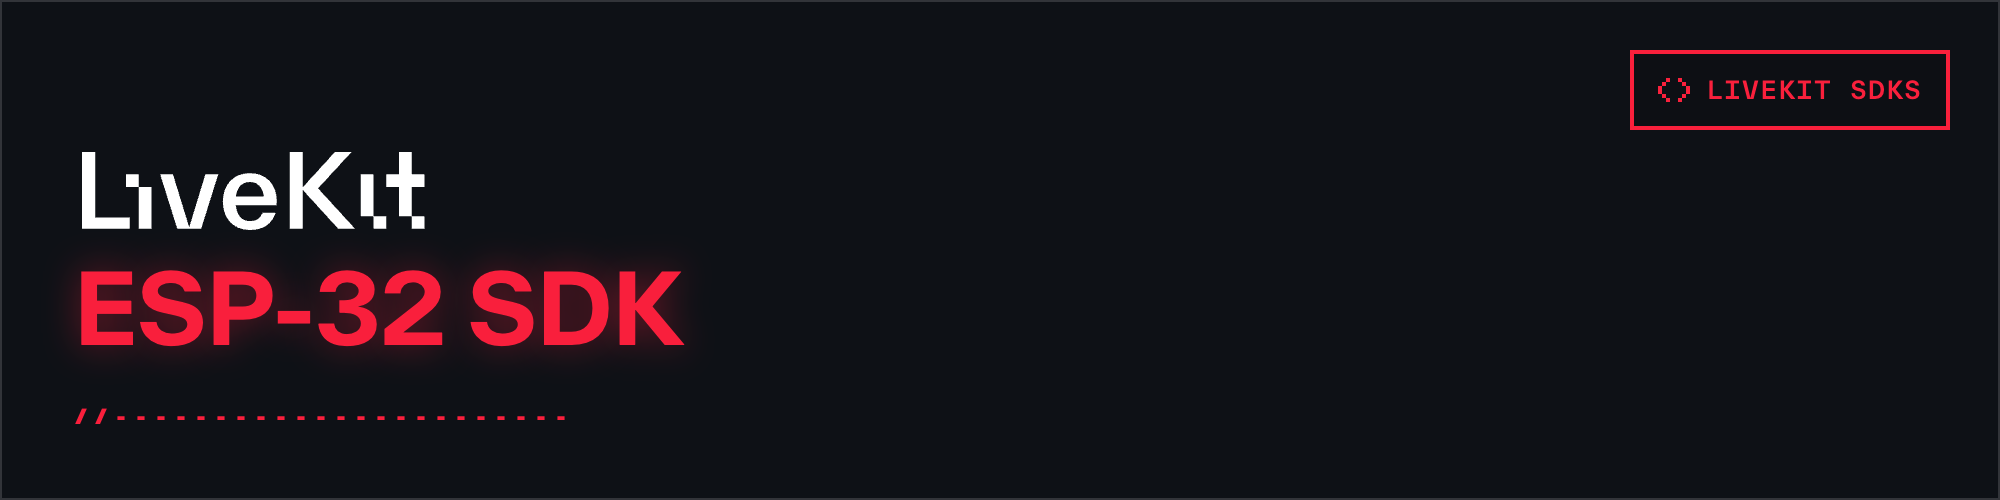
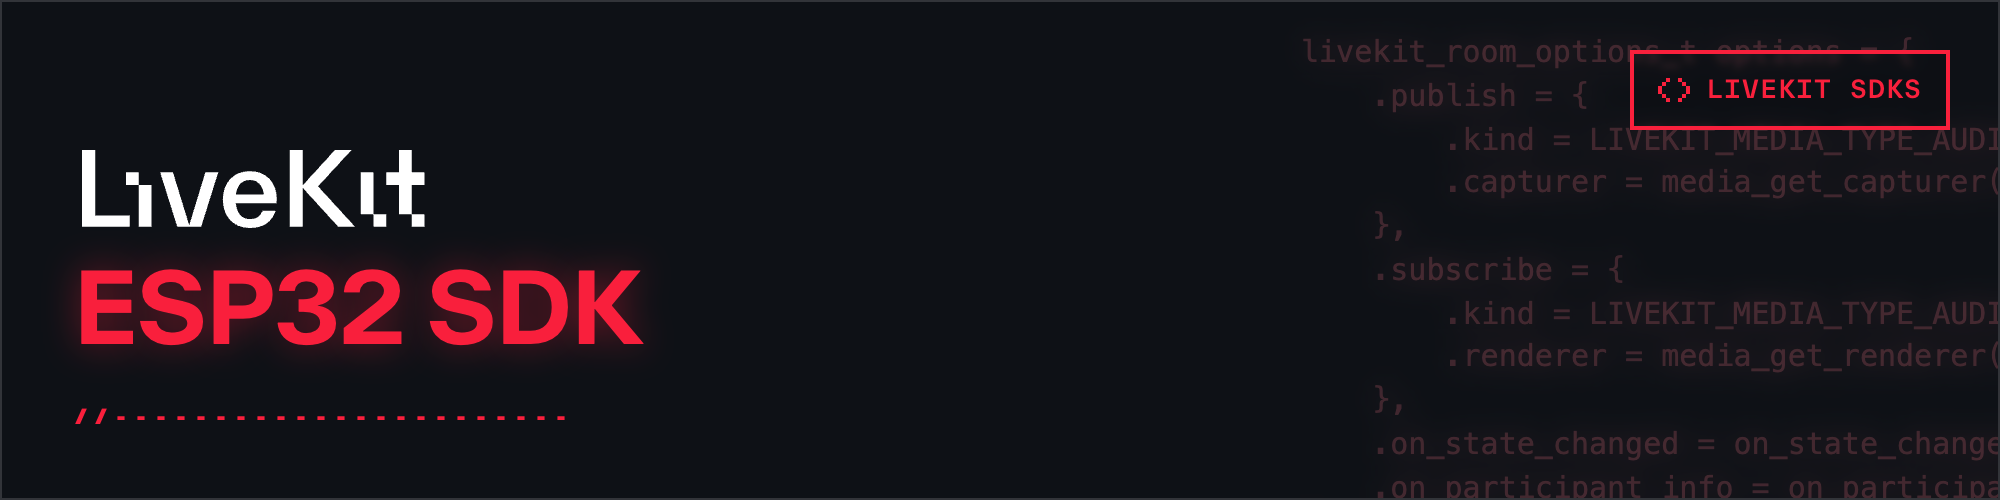
update readme

diff --git a/README.md b/README.md
@@ -1,9 +1,11 @@
 <!--BEGIN_BANNER_IMAGE-->
+
 <picture>
-    <source media="(prefers-color-scheme: dark)" srcset="/.github/banner_dark.png">
-    <source media="(prefers-color-scheme: light)" srcset="/.github/banner_light.png">
-    <img style="width:100%;" alt="The LiveKit icon, the name of the repository and some sample code in the background." src="https://raw.githubusercontent.com/livekit/client-sdk-esp32/main/.github/banner_light.png">
+  <source media="(prefers-color-scheme: dark)" srcset="/.github/banner_dark.png">
+  <source media="(prefers-color-scheme: light)" srcset="/.github/banner_light.png">
+  <img style="width:100%;" alt="The LiveKit icon, the name of the repository and some sample code in the background." src="https://raw.githubusercontent.com/livekit/client-sdk-esp32/main/.github/banner_light.png">
 </picture>
+
 <!--END_BANNER_IMAGE-->
 
 # ESP-32 SDK for LiveKit
@@ -58,9 +60,9 @@ We invite you to join the [LiveKit Community Slack](https://livekit.io/join-slac
 <br/><table>
 <thead><tr><th colspan="2">LiveKit Ecosystem</th></tr></thead>
 <tbody>
-<tr><td>LiveKit SDKs</td><td><a href="https://github.com/livekit/client-sdk-js">Browser</a> · <a href="https://github.com/livekit/client-sdk-swift">iOS/macOS/visionOS</a> · <a href="https://github.com/livekit/client-sdk-android">Android</a> · <a href="https://github.com/livekit/client-sdk-flutter">Flutter</a> · <a href="https://github.com/livekit/client-sdk-react-native">React Native</a> · <a href="https://github.com/livekit/rust-sdks">Rust</a> · <a href="https://github.com/livekit/node-sdks">Node.js</a> · <a href="https://github.com/livekit/python-sdks">Python</a> · <a href="https://github.com/livekit/client-sdk-unity">Unity</a> · <a href="https://github.com/livekit/client-sdk-unity-web">Unity (WebGL)</a> · <b>ESP-32</b></td></tr><tr></tr>
+<tr><td>LiveKit SDKs</td><td><a href="https://github.com/livekit/client-sdk-js">Browser</a> · <a href="https://github.com/livekit/client-sdk-swift">iOS/macOS/visionOS</a> · <a href="https://github.com/livekit/client-sdk-android">Android</a> · <a href="https://github.com/livekit/client-sdk-flutter">Flutter</a> · <a href="https://github.com/livekit/client-sdk-react-native">React Native</a> · <a href="https://github.com/livekit/rust-sdks">Rust</a> · <a href="https://github.com/livekit/node-sdks">Node.js</a> · <a href="https://github.com/livekit/python-sdks">Python</a> · <a href="https://github.com/livekit/client-sdk-unity">Unity</a> · <a href="https://github.com/livekit/client-sdk-unity-web">Unity (WebGL)</a> · <b>ESP32</b></td></tr><tr></tr>
 <tr><td>Server APIs</td><td><a href="https://github.com/livekit/node-sdks">Node.js</a> · <a href="https://github.com/livekit/server-sdk-go">Golang</a> · <a href="https://github.com/livekit/server-sdk-ruby">Ruby</a> · <a href="https://github.com/livekit/server-sdk-kotlin">Java/Kotlin</a> · <a href="https://github.com/livekit/python-sdks">Python</a> · <a href="https://github.com/livekit/rust-sdks">Rust</a> · <a href="https://github.com/agence104/livekit-server-sdk-php">PHP (community)</a> · <a href="https://github.com/pabloFuente/livekit-server-sdk-dotnet">.NET (community)</a></td></tr><tr></tr>
-<tr><td>UI Components</td><td><a href="https://github.com/livekit/components-js">React</a> · <a href="https://github.com/livekit/components-android">Android Compose</a> · <a href="https://github.com/livekit/components-swift">SwiftUI</a></td></tr><tr></tr>
+<tr><td>UI Components</td><td><a href="https://github.com/livekit/components-js">React</a> · <a href="https://github.com/livekit/components-android">Android Compose</a> · <a href="https://github.com/livekit/components-swift">SwiftUI</a> · <a href="https://github.com/livekit/components-flutter">Flutter</a></td></tr><tr></tr>
 <tr><td>Agents Frameworks</td><td><a href="https://github.com/livekit/agents">Python</a> · <a href="https://github.com/livekit/agents-js">Node.js</a> · <a href="https://github.com/livekit/agent-playground">Playground</a></td></tr><tr></tr>
 <tr><td>Services</td><td><a href="https://github.com/livekit/livekit">LiveKit server</a> · <a href="https://github.com/livekit/egress">Egress</a> · <a href="https://github.com/livekit/ingress">Ingress</a> · <a href="https://github.com/livekit/sip">SIP</a></td></tr><tr></tr>
 <tr><td>Resources</td><td><a href="https://docs.livekit.io">Docs</a> · <a href="https://github.com/livekit-examples">Example apps</a> · <a href="https://livekit.io/cloud">Cloud</a> · <a href="https://docs.livekit.io/home/self-hosting/deployment">Self-hosting</a> · <a href="https://github.com/livekit/livekit-cli">CLI</a></td></tr>
